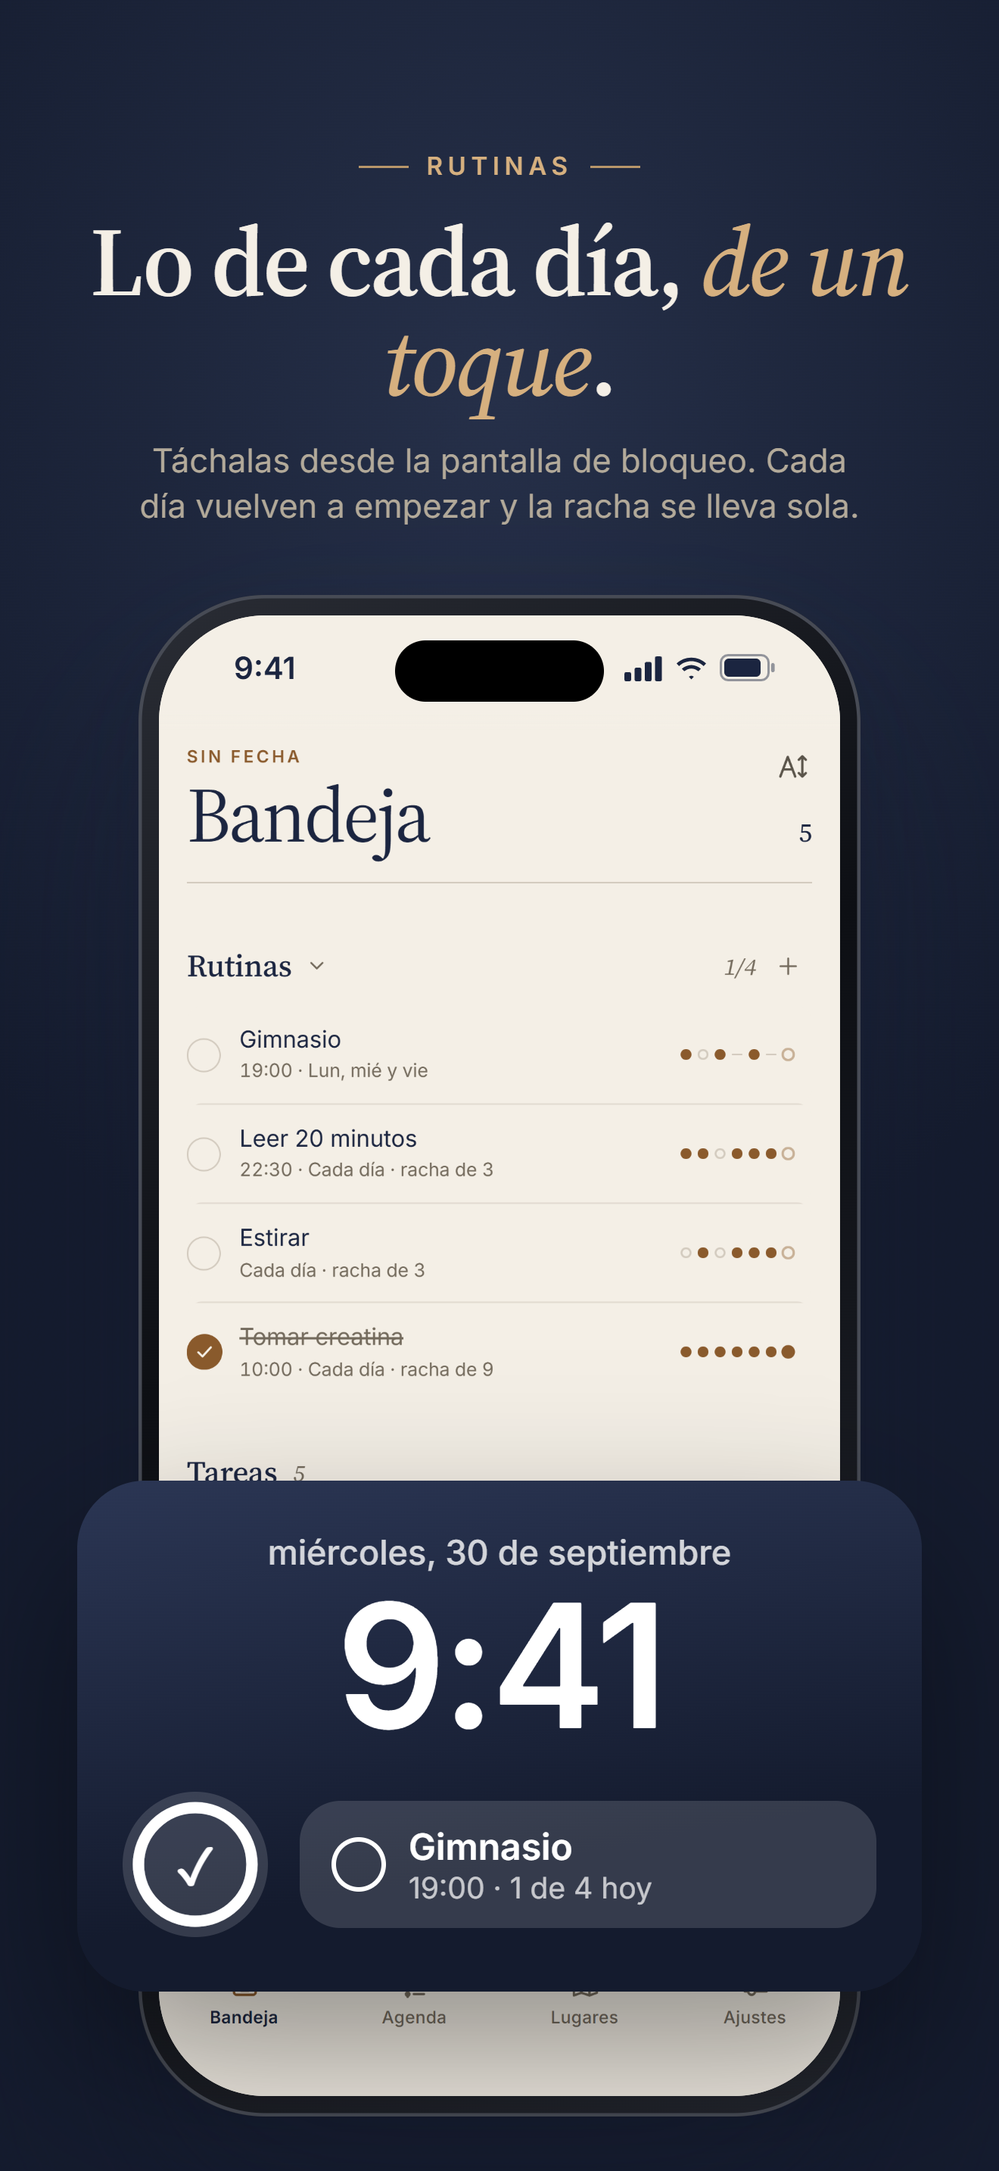
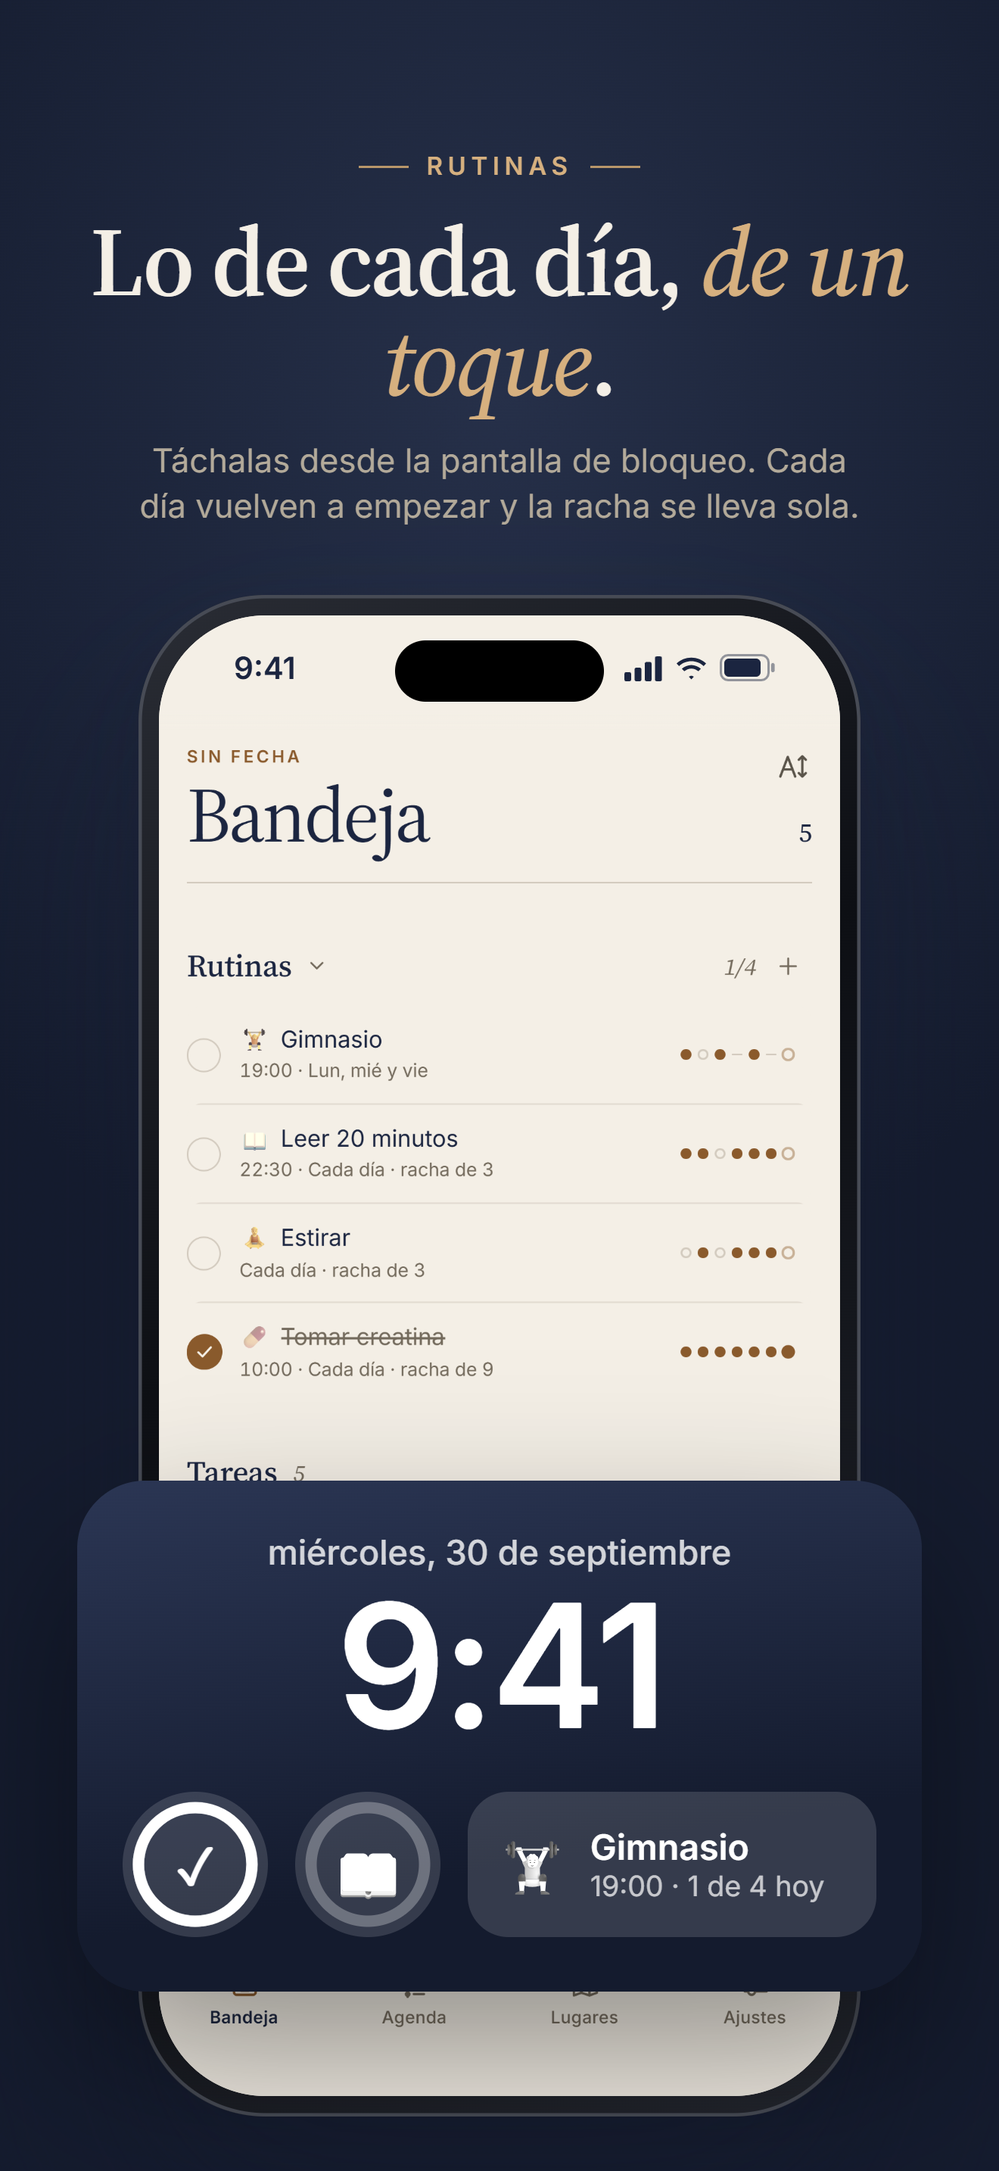
docs: ficha y capturas de la 1.2 para la App Store
- Nueve capturas nuevas: entra la del mes desplegado y las rutinas y los widgets salen con emoji.
- docs/app-store.md: descripción y palabras clave nuevas, notas para la revisión con la bienvenida,
  los destinos de la barra y el mes, y las novedades y los pasos de la 1.2 (§9.4).
- scripts/edge.mjs cierra el navegador al acabar: quedaban Edge sin ventana vivos y la siguiente
  ejecución hablaba con uno viejo. app-store-shots.mjs limpia el origen antes de empezar.

diff --git a/docs/app-store.md b/docs/app-store.md
@@ -248,15 +248,24 @@ No abre la app: el widget, el número del icono y los avisos quedan al día solo
 **Palabras clave** (100 caracteres, sin marcas ajenas: Apple rechaza nombres de otras empresas):
 
 ```
-recordatorios,pendientes,lista,to-do,ubicación,lugar,dictado,voz,siri,agenda,semana,avisos
+recordatorios,pendientes,lista,rutinas,hábitos,ubicación,dictado,voz,siri,agenda,widget,calendario
 ```
 
-**Descripción**
+(98 caracteres. Hasta la 1.1: `recordatorios,pendientes,lista,to-do,ubicación,lugar,dictado,voz,siri,agenda,semana,avisos`;
+"lugar" y "avisos" ya están en el nombre y el subtítulo, que Apple también indexa.)
+
+**Descripción** (desde la 1.2)
 
 ```
 Tus tareas del día, sin cuentas y sin nada que configurar.
 
 Escribe como hablas: «llamar a Ana mañana a las 5» pone el día, la hora y el aviso. «Comprar pan al pasar por Mercadona» te avisa cuando llegas.
+
+TU DÍA, A SU HORA
+La agenda pone en un horario lo que tiene hora, con el tiempo libre entre medias, y en su lista lo que no. Tira de la semana hacia abajo y se abre el mes entero para saltar a cualquier fecha.
+
+RUTINAS
+Lo que se repite —«tomar creatina cada día a las 10», «gimnasio los lunes y jueves»— va aparte, con su emoji y su racha. Cada mañana amanecen sin tachar y se tachan de un toque, también desde la pantalla de bloqueo.
 
 AVISOS AL LLEGAR O SALIR
 Guarda tus sitios buscándolos en Mapas o con tu ubicación actual. El iPhone te avisa al llegar o al salir, aunque la app esté cerrada, y lo repite cada vez hasta que marques la tarea.
@@ -270,11 +279,14 @@ Tantos como quieras por tarea: a la hora, antes, a una hora concreta. Márcala h
 AL ACABAR, UNA PREGUNTA
 Dile cuánto dura —«gimnasio a las 7 durante una hora», «reunión de 5 a 6»— y al terminar te pregunta si has acabado. Un toque en «Sí» y queda tachada, sin abrir la app.
 
-TU DÍA DE UN VISTAZO
-Lo importante se ve más grande. Lo que se quedó sin hacer ayer pasa a hoy de un toque, desde la app, el widget o Siri.
+LO IMPORTANTE, MÁS GRANDE
+Sin etiquetas ni colores: lo importante se ve más grande. Lo que se quedó sin hacer ayer pasa a hoy de un toque, desde la app, el widget o Siri.
 
-SIRI Y ATAJOS
-«Oye Siri, apunta en Tasks» y dilo de corrido, sin abrir la app y con el iPhone bloqueado. Con un atajo, también desde tocar atrás, el botón de acción o la pantalla de bloqueo.
+WIDGETS, SIRI Y ATAJOS
+Tareas y rutinas se tachan desde el widget. «Oye Siri, apunta en Tasks» y dilo de corrido, sin abrir la app y con el iPhone bloqueado. Con un atajo, también desde tocar atrás, el botón de acción o la pantalla de bloqueo.
+
+DE DÍA Y DE NOCHE
+Papel marfil de día y azul de medianoche de noche, o que siga a tu iPhone.
 
 PRIVADA
 Tus tareas, lugares y ubicación se quedan en tu iPhone. Sin registro, sin publicidad, sin analítica.
@@ -285,13 +297,18 @@ Tus tareas, lugares y ubicación se quedan en tu iPhone. Sin registro, sin publi
 son las que salen en la búsqueda):
 
 1. `1-agenda`: «Tu día, a su hora.» (papel; el horario del día y la tira de la semana)
-2. `2-rutinas`: «Lo de cada día, de un toque.» (azul noche; con el widget de la pantalla de bloqueo)
+2. `2-rutinas`: «Lo de cada día, de un toque.» (azul noche; rutinas con emoji y los widgets de la
+   pantalla de bloqueo)
 3. `3-lugares`: «Te avisa al llegar.» (arena)
-4. `4-has-acabado`: «Te pregunta si has acabado.»
-5. `5-escribir`: «Escribe como hablas.»
-6. `6-importancia`: «Lo importante, más grande.»
-7. `7-oscuro`: «De noche, en calma.» (la app en modo oscuro)
-8. `8-widget`: «Siempre a mano.» (widgets y Siri)
+4. `4-mes`: «De la semana al mes.» (la tira desplegada en el mes, con sus anillos)
+5. `5-has-acabado`: «Te pregunta si has acabado.»
+6. `6-escribir`: «Escribe como hablas.» (la barra nueva con la píldora de lo entendido)
+7. `7-importancia`: «Lo importante, más grande.»
+8. `8-oscuro`: «De noche, en calma.» (la app en modo oscuro)
+9. `9-widget`: «Siempre a mano.» (widgets de Hoy y de Rutinas, y Siri)
+
+Son nueve desde el 30/09/2026 (Apple admite hasta diez). Los emojis de las capturas son los de
+Windows (se generan en el portátil): en el iPhone salen los de Apple.
 
 Cada una es la app real con datos de ejemplo dentro de un iPhone, con titular y un detalle que sale
 del marco (el aviso, la píldora de lo entendido, los widgets). Se regeneran cuando cambie la
@@ -319,34 +336,36 @@ sistema), así que TestFlight no pregunta por la exportación.
 ## 5. Notas para la revisión de Apple
 
 En inglés: quien revisa no tiene por qué saber español. Van en **Información para la revisión →
-Notas** (máximo 4000 caracteres; estas son unas 3500). Son lo mismo que pidió Apple en el rechazo del
+Notas** (máximo 4000 caracteres; estas son unas 3950: van justas, con la bienvenida, los destinos de la barra y
+el mes de la 1.2). Son lo mismo que pidió Apple en el rechazo del
 22/09/2026 (§7), sin el vídeo, con el aviso del dictado como quedó tras el rechazo del 23/09/2026 (§8).
 
 ```
-No account or login is needed. Tasks and places are stored only on the device. The interface is in Spanish; labels used below: bottom tabs "Bandeja" = Inbox (undated tasks and routines), "Agenda" = day timeline and week, "Lugares" = Places, "Ajustes" = Settings; "Hoy" = Today, "Rutinas" = Routines, "Recordatorios" = Reminders, "Continuar" = Continue.
+No account or login is needed. Tasks and places are stored only on the device. The interface is in Spanish; bottom tabs: "Bandeja" = Inbox (undated tasks and routines), "Agenda" = day timeline, "Lugares" = Places, "Ajustes" = Settings. "Hoy" = Today, "Rutinas" = Routines, "Recordatorios" = Reminders, "Continuar" = Continue.
 
 PURPOSE AND AUDIENCE
-A simple daily to-do list for Spanish-speaking iPhone users who want to jot tasks down quickly and be reminded at the right time or place, without signing up or setting anything up. You write or say a task the way you would say it and the app sets the day, time and reminder.
+A simple daily to-do list for Spanish-speaking iPhone users who want to jot tasks down quickly and be reminded at the right time or place, without signing up. You write or say a task the way you would say it and the app sets the day, time and reminder.
 
 HOW TO TEST
-- Add: in the bar at the bottom type "llamar a Ana mañana a las 5" (call Ana tomorrow at 5) and press Return. A chip shows the detected day and time and a reminder is scheduled; notification permission is requested the first time a reminder exists.
-- Swipe a task right to complete it, left to delete it (Undo appears). Drag the handle on the right to reorder, or onto a day of the week strip to move it. Swipe the week strip to change week.
+- First launch shows a short welcome: "Empezar" then "Continuar", or "Saltar" (Skip). The app starts empty.
+- Add: tap the bar at the bottom, type "llamar a Ana mañana a las 5" (call Ana tomorrow at 5) and press Return or the round arrow. A chip shows the detected day and time and a reminder is scheduled; notification permission is requested the first time a reminder exists. With no date in the text, the chips under the bar ("Hoy", "Mañana" = Tomorrow, "Sin fecha" = No date) choose where it goes. Tap outside the bar to close the keyboard.
+- Swipe a task right to complete it, left to delete it (Undo appears). Drag the handle on the right to reorder, or onto a day of the week strip to move it. Swipe the strip to change week; pull it down (or tap the month name) to open the whole month.
 - Tap a task to edit date, time, duration, reminders and importance. The "A" button (top right) is importance mode: drag the number on a task; more important tasks get a larger title.
-- Routines: type "tomar creatina todos los días a las 10" (take creatine every day at 10). It appears in Bandeja → Rutinas; tick it for today and it resets the next day. The "Rutinas" Lock Screen widget ticks it with one tap.
+- Routines: type "tomar creatina todos los días a las 10" (take creatine every day at 10). It appears in Bandeja → Rutinas with an emoji; tick it for today and it resets the next day. The "Rutinas" Lock Screen widget ticks it with one tap.
 - Duration: "gimnasio hoy a las 18:00 durante una hora" (gym today at 6 pm for one hour). When it ends, a notification asks "¿Has acabado?" (Are you done?) with "Sí, hecha" / "Todavía no" (long-press the notification).
-- Location reminders: Lugares → "Buscar o añadir un lugar" → search a place (Apple Maps) or "Usar mi ubicación actual". Location is requested "while using" only. Then open a task → Recordatorios → Añadir → the place. iOS delivers the notification on arrival or departure (UNLocationNotificationTrigger), even with the app closed.
+- Location reminders: Lugares → "Buscar o añadir un lugar" → search a place (Apple Maps) or "Usar mi ubicación actual". Location is requested "while using" only. Then open a task → Recordatorios → Añadir → the place. iOS delivers it on arrival or departure (UNLocationNotificationTrigger), even with the app closed.
 - Dictation: with the bar empty, tap the microphone. The first time, a notice explains that the audio is sent to our server and processed by Cloudflare Workers AI; its only button, "Continuar", leads to the iOS microphone permission request. Example: "cena hoy a las nueve y recuérdamelo media hora antes" (dinner today at 9, remind me half an hour before).
-- Siri (Spanish): "Apunta en Tasks", then the task. It is added in the background without opening the app. The same actions are in the Shortcuts app ("Añadir tarea", "Pasar atrasadas a hoy"). Also: "Hoy" widget and Home Screen quick actions (long-press the icon).
+- Siri (Spanish): "Apunta en Tasks", then the task. It is added without opening the app. Same actions in the Shortcuts app ("Añadir tarea", "Pasar atrasadas a hoy"). Also: "Hoy" widget and Home Screen quick actions.
 - Ajustes: light or dark appearance; export or import a JSON backup.
 
 EXTERNAL SERVICES
-- Our own backend on Cloudflare Workers, used only for dictation. It receives the audio (from Siri, only the text) plus the device's local date and time; the audio is transcribed with Whisper and the text interpreted with NVIDIA Nemotron, both on Cloudflare Workers AI. Nothing is stored or logged, and Cloudflare does not use it to train models. It is sent only after the user has seen that notice and granted microphone access; it can be turned off in Ajustes → Dictado. Otherwise nothing is sent and Siri input is parsed on the device.
+- Our own backend on Cloudflare Workers, used only for dictation. It receives the audio (from Siri, only the text) plus the device's local date and time; the audio is transcribed with Whisper and the text interpreted with NVIDIA Nemotron, both on Cloudflare Workers AI. Nothing is stored or logged, and Cloudflare does not use it to train models. It is sent only after the user has seen that notice and granted microphone access (off in Ajustes → Dictado). Otherwise nothing is sent and Siri input is parsed on the device.
 - The backend keeps only a random device ID and a hash of its token, for rate limiting.
 - Apple Maps (MapKit search), iOS local notifications and region monitoring.
 - No analytics, advertising, tracking, third-party SDKs, payments or authentication services.
 
 REGIONAL DIFFERENCES
-None: the app works the same in every region. Its interface and language parsing are in Spanish.
+None. The interface and language parsing are in Spanish.
 
 REGULATED INDUSTRY OR THIRD-PARTY MATERIAL
 Not applicable.
@@ -573,12 +592,12 @@ versión nueva y su revisión. Lo demás sigue igual:
 Release) es la versión que se publica y tiene que ser mayor que la última aprobada: App Store Connect
 rechaza las compilaciones de una versión ya aprobada y el CI falla al subir (`ITMS-90186`,
 `ITMS-90062`), también la ejecución programada del día 1. Por eso, **en cuanto Apple apruebe una
-versión, se sube** (1.1 → 1.2…) antes del siguiente push que toque la app. Ahora es la 1.1.
+versión, se sube** (1.2 → 1.3…) antes del siguiente push que toque la app. Ahora es la 1.2.
 
 ### 9.2 Probar la compilación (tú, en el iPhone)
 
 1. Tras el push, *Actions* → **iOS** en verde; entre 5 y 30 minutos después TestFlight enseña
-   **1.1 (N)**.
+   **1.2 (N)**.
 2. *TestFlight* → Tasks → **Actualizar**, y probar.
 
 En el iPhone solo cabe una: la de TestFlight (punto naranja junto al nombre) sustituye a la de la App
@@ -587,15 +606,18 @@ otra, **···** → *Exportar copia* → *Guardar en Archivos*.
 
 ### 9.3 Enviar a revisión (tú, en App Store Connect)
 
-1. **Distribución** → columna izquierda, **+** junto a *App para iOS* → versión `1.1` (la misma que
+1. **Distribución** → columna izquierda, **+** junto a *App para iOS* → versión `1.2` (la misma que
    `MARKETING_VERSION`) → **Crear**. La versión nueva copia de la anterior las capturas, la
-   descripción, las palabras clave, las URL y la información para la revisión.
-2. **Novedades de esta versión** (obligatorio en una actualización): una o dos frases con lo nuevo. Es
-   lo que se lee en la App Store. Para la 1.1: *«Diseño nuevo, en papel marfil y tinta azul marino,
-   con icono nuevo y una apertura más cuidada. Corregido: al elegir una hora a mano podía guardarse
-   otra.»* Si cambian las capturas, en esa misma página **Capturas de pantalla** → borrar las
-   antiguas del tamaño de 6,9" y arrastrar las ocho de `docs/capturas/` en orden.
-3. **Compilación** → **Añadir compilación** → la **1.1 (N)** probada → **Listo**.
+   descripción, las palabras clave, las URL y la información para la revisión. Si la anterior sigue
+   *Pendiente de publicación del desarrollador*, hay que publicarla antes (**Publicar esta versión**):
+   mientras tanto el **+** no sale.
+2. **Novedades de esta versión** (obligatorio en una actualización): lo nuevo, en pocas líneas. Es
+   lo que se lee en la App Store. El texto de la 1.2 está en §9.4 (el de la 1.1 fue *«Diseño nuevo,
+   en papel marfil y tinta azul marino, con icono nuevo y una apertura más cuidada. Corregido: al
+   elegir una hora a mano podía guardarse otra.»*). Si cambian las capturas, en esa misma página
+   **Capturas de pantalla** → borrar las antiguas del tamaño de 6,9" y arrastrar las de
+   `docs/capturas/` en orden.
+3. **Compilación** → **Añadir compilación** → la **1.2 (N)** probada → **Listo**.
 4. Solo si hace falta: si cambia lo que se recoge (§4), **Privacidad de la app** y
    `PrivacyInfo.xcprivacy`; si hay algo nuevo que Apple necesite saber para probarlo, las **Notas** (§5).
 5. **Publicación de la versión**: *automáticamente* (sale en cuanto la aprueben; *manualmente* si
@@ -604,3 +626,37 @@ otra, **···** → *Exportar copia* → *Guardar en Archivos*.
    de estado; una actualización suele revisarse en menos de un día.
 7. Aprobada: subir `MARKETING_VERSION` a la siguiente (§9.1). Quien tenga activadas las
    actualizaciones automáticas la recibe sola.
+
+### 9.4 La 1.2 (30/09/2026)
+
+La primera actualización grande: cuatro pestañas, agenda con horario, rutinas, modo oscuro, el mes
+desplegable, los emojis, la barra de escribir nueva y la bienvenida. Compilación: la **1.2 (29)**, de
+`capacitor` (commit `14fe2f2`). Cambia casi toda la ficha, así que además de los pasos de §9.3:
+
+- **Capturas**: borrar las que haya en 6,9" y subir las nueve de `docs/capturas/`, de `1-agenda` a
+  `9-widget`, en ese orden.
+- **Descripción** y **Palabras clave**: las de §3 (la descripción solo se puede cambiar con una
+  versión nueva: es ahora o en la siguiente).
+- **Notas para la revisión**: las de §5, que ya cuentan la bienvenida, los destinos de la barra y el
+  mes. Quien revisa instala de cero y lo primero que ve es la bienvenida.
+- **Privacidad**: sin cambios (no se recoge nada nuevo).
+
+**Novedades de esta versión**
+
+```
+Tasks se ha rehecho de arriba abajo.
+
+• Agenda: tu día en un horario, con el tiempo libre entre medias. Tira de la semana hacia abajo y se abre el mes entero.
+• Rutinas: lo que se repite, con su emoji y su racha. Se tachan de un toque, también desde el widget de la pantalla de bloqueo.
+• Barra de escribir nueva: al tocarla eliges adónde va (hoy, mañana o sin fecha) y puedes apuntar varias seguidas.
+• Modo oscuro: claro, oscuro o automático.
+• Lugares con mapa y radio ajustable.
+• Una bienvenida para quien llega de nuevas.
+• Deslizar las tareas va más fino.
+```
+
+**Texto promocional** (opcional, 170 caracteres; se puede cambiar sin versión nueva)
+
+```
+Nuevo: agenda con horario, rutinas con emoji que se tachan desde la pantalla de bloqueo, el mes entero de un tirón y modo oscuro.
+```

diff --git a/CLAUDE.md b/CLAUDE.md
@@ -111,24 +111,29 @@ la PWA (solo ve horas y contenido cifrado) y transcribe el dictado.
   vez se abre una **bienvenida** interactiva en lugar de las tareas de ejemplo (ver "Bienvenida").
   Probado con Edge sin ventana y dedo simulado (claro, oscuro y 375 × 667); 620 tests. En el iPhone
   queda por ver el teclado con la barra nueva y los widgets con emoji.
+- **Ficha de la 1.2 preparada** (30/09/2026): **nueve capturas** nuevas en `docs/capturas/` (entra
+  `4-mes`; las rutinas y los widgets salen con emoji), y en `docs/app-store.md` la descripción y las
+  palabras clave nuevas (§3), las notas para la revisión con la bienvenida y la barra nueva (§5) y
+  las novedades y los pasos de la 1.2 (§9.4). La compilación que se envía es la **1.2 (29)**.
+  `scripts/edge.mjs` ya cierra el navegador al acabar (`Browser.close`): antes quedaban Edge sin
+  ventana vivos y la siguiente ejecución hablaba con uno viejo (su service worker servía la web de
+  entonces); `app-store-shots.mjs` además limpia el origen antes de empezar.
 
 **Pendiente, en este orden**
 
-0. De lo del 30/09/2026 (TestFlight 29), probar en el iPhone: tocar la barra
-   de escribir (que las pestañas se quiten en el acto y la tarjeta suba con el teclado), tirar de la
-   tira hacia abajo y pasar de mes, una rutina con emoji en el widget de bloqueo y en el de inicio, y
-   la bienvenida (borrar la app e instalarla, o Ajustes → *Ver la bienvenida*). Las capturas de
-   `docs/capturas/` son de antes: regenerarlas (`node scripts/app-store-shots.mjs`) antes de enviar.
+0. **Enviar la 1.2** (`docs/app-store.md` §9.3 y §9.4). Antes, probar la TestFlight 29 en el iPhone:
+   tocar la barra de escribir (que las pestañas se quiten en el acto y la tarjeta suba con el
+   teclado), tirar de la tira hacia abajo y pasar de mes, una rutina con emoji en el widget de bloqueo
+   y en el de inicio, y la bienvenida (Ajustes → *Ver la bienvenida*). Después de enviarla, unir
+   `capacitor` a `main` para que la web pública lleve la misma interfaz.
 1. Subir a TestFlight (push a `main`) y **comprobar que el CI compila el Swift nuevo** (widget de
    rutinas, `ToggleRoutineIntent`, `setAppearance`, `mapSnapshot`, `NotificationResponder`). Probar en
    el iPhone: las cuatro pestañas; deslizar filas y la tira de la semana; el modo oscuro (también la
    pantalla de carga, la rueda de la hora y el teclado); una rutina con hora ("tomar creatina todos
    los días a las 10") y su aviso con **Hecha** sin abrir la app; el widget **Rutinas** en la
    pantalla de bloqueo (tocarlo la tacha; al día siguiente amanece sin tachar); el mapa de Lugares;
-   el widget de hoy en claro y en oscuro. Después, subir las ocho capturas de `docs/capturas/` y
-   enviar la 1.2 (`docs/app-store.md` §3 y §9; la ficha puede mencionar rutinas, modo oscuro y el
-   widget de la pantalla de bloqueo). iOS guarda en caché la pantalla de carga: si sale la antigua,
-   reiniciar el iPhone.
+   el widget de hoy en claro y en oscuro. iOS guarda en caché la pantalla de carga: si sale la
+   antigua, reiniciar el iPhone.
 2. Probar en el iPhone lo de `docs/app-store.md` §2 "Apuntar sin abrir la app" (el usuario crea el
    atajo *Dictar tarea* con los pasos de §2.1), "Pasar a hoy", "Importancia" y el aviso de cierre.
    Lo más delicado: el botón **A hoy** del widget corre en el proceso de la app
